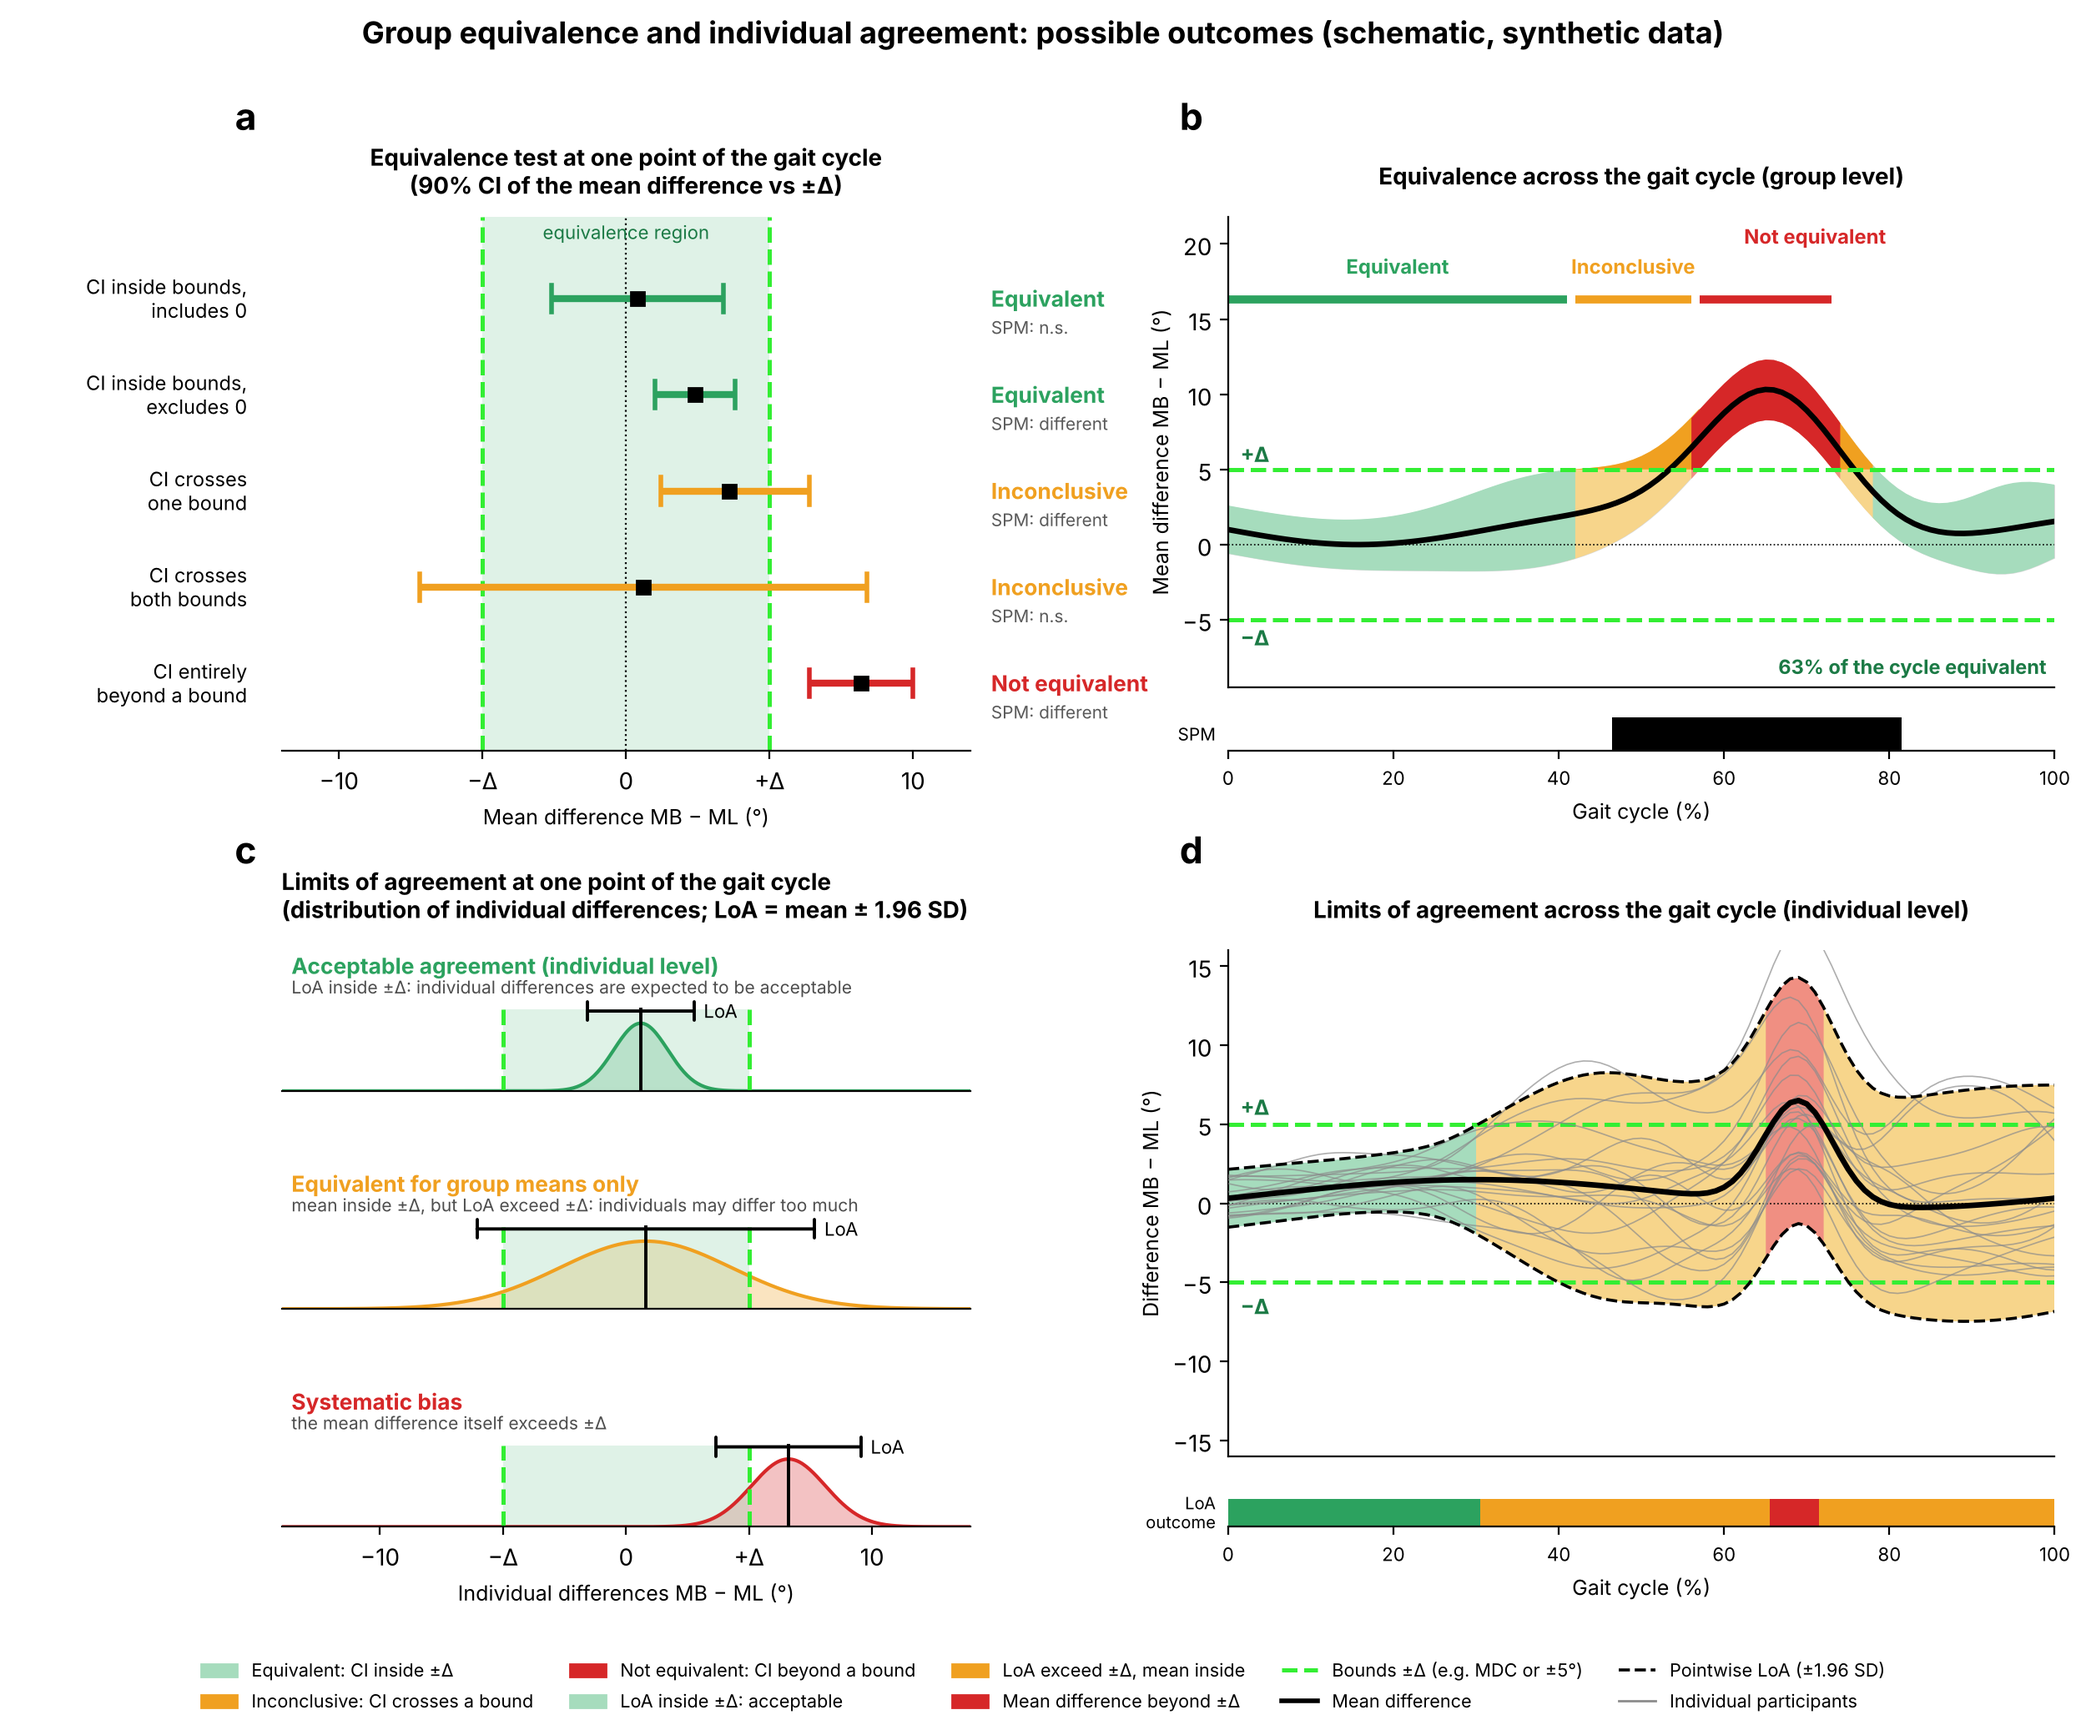
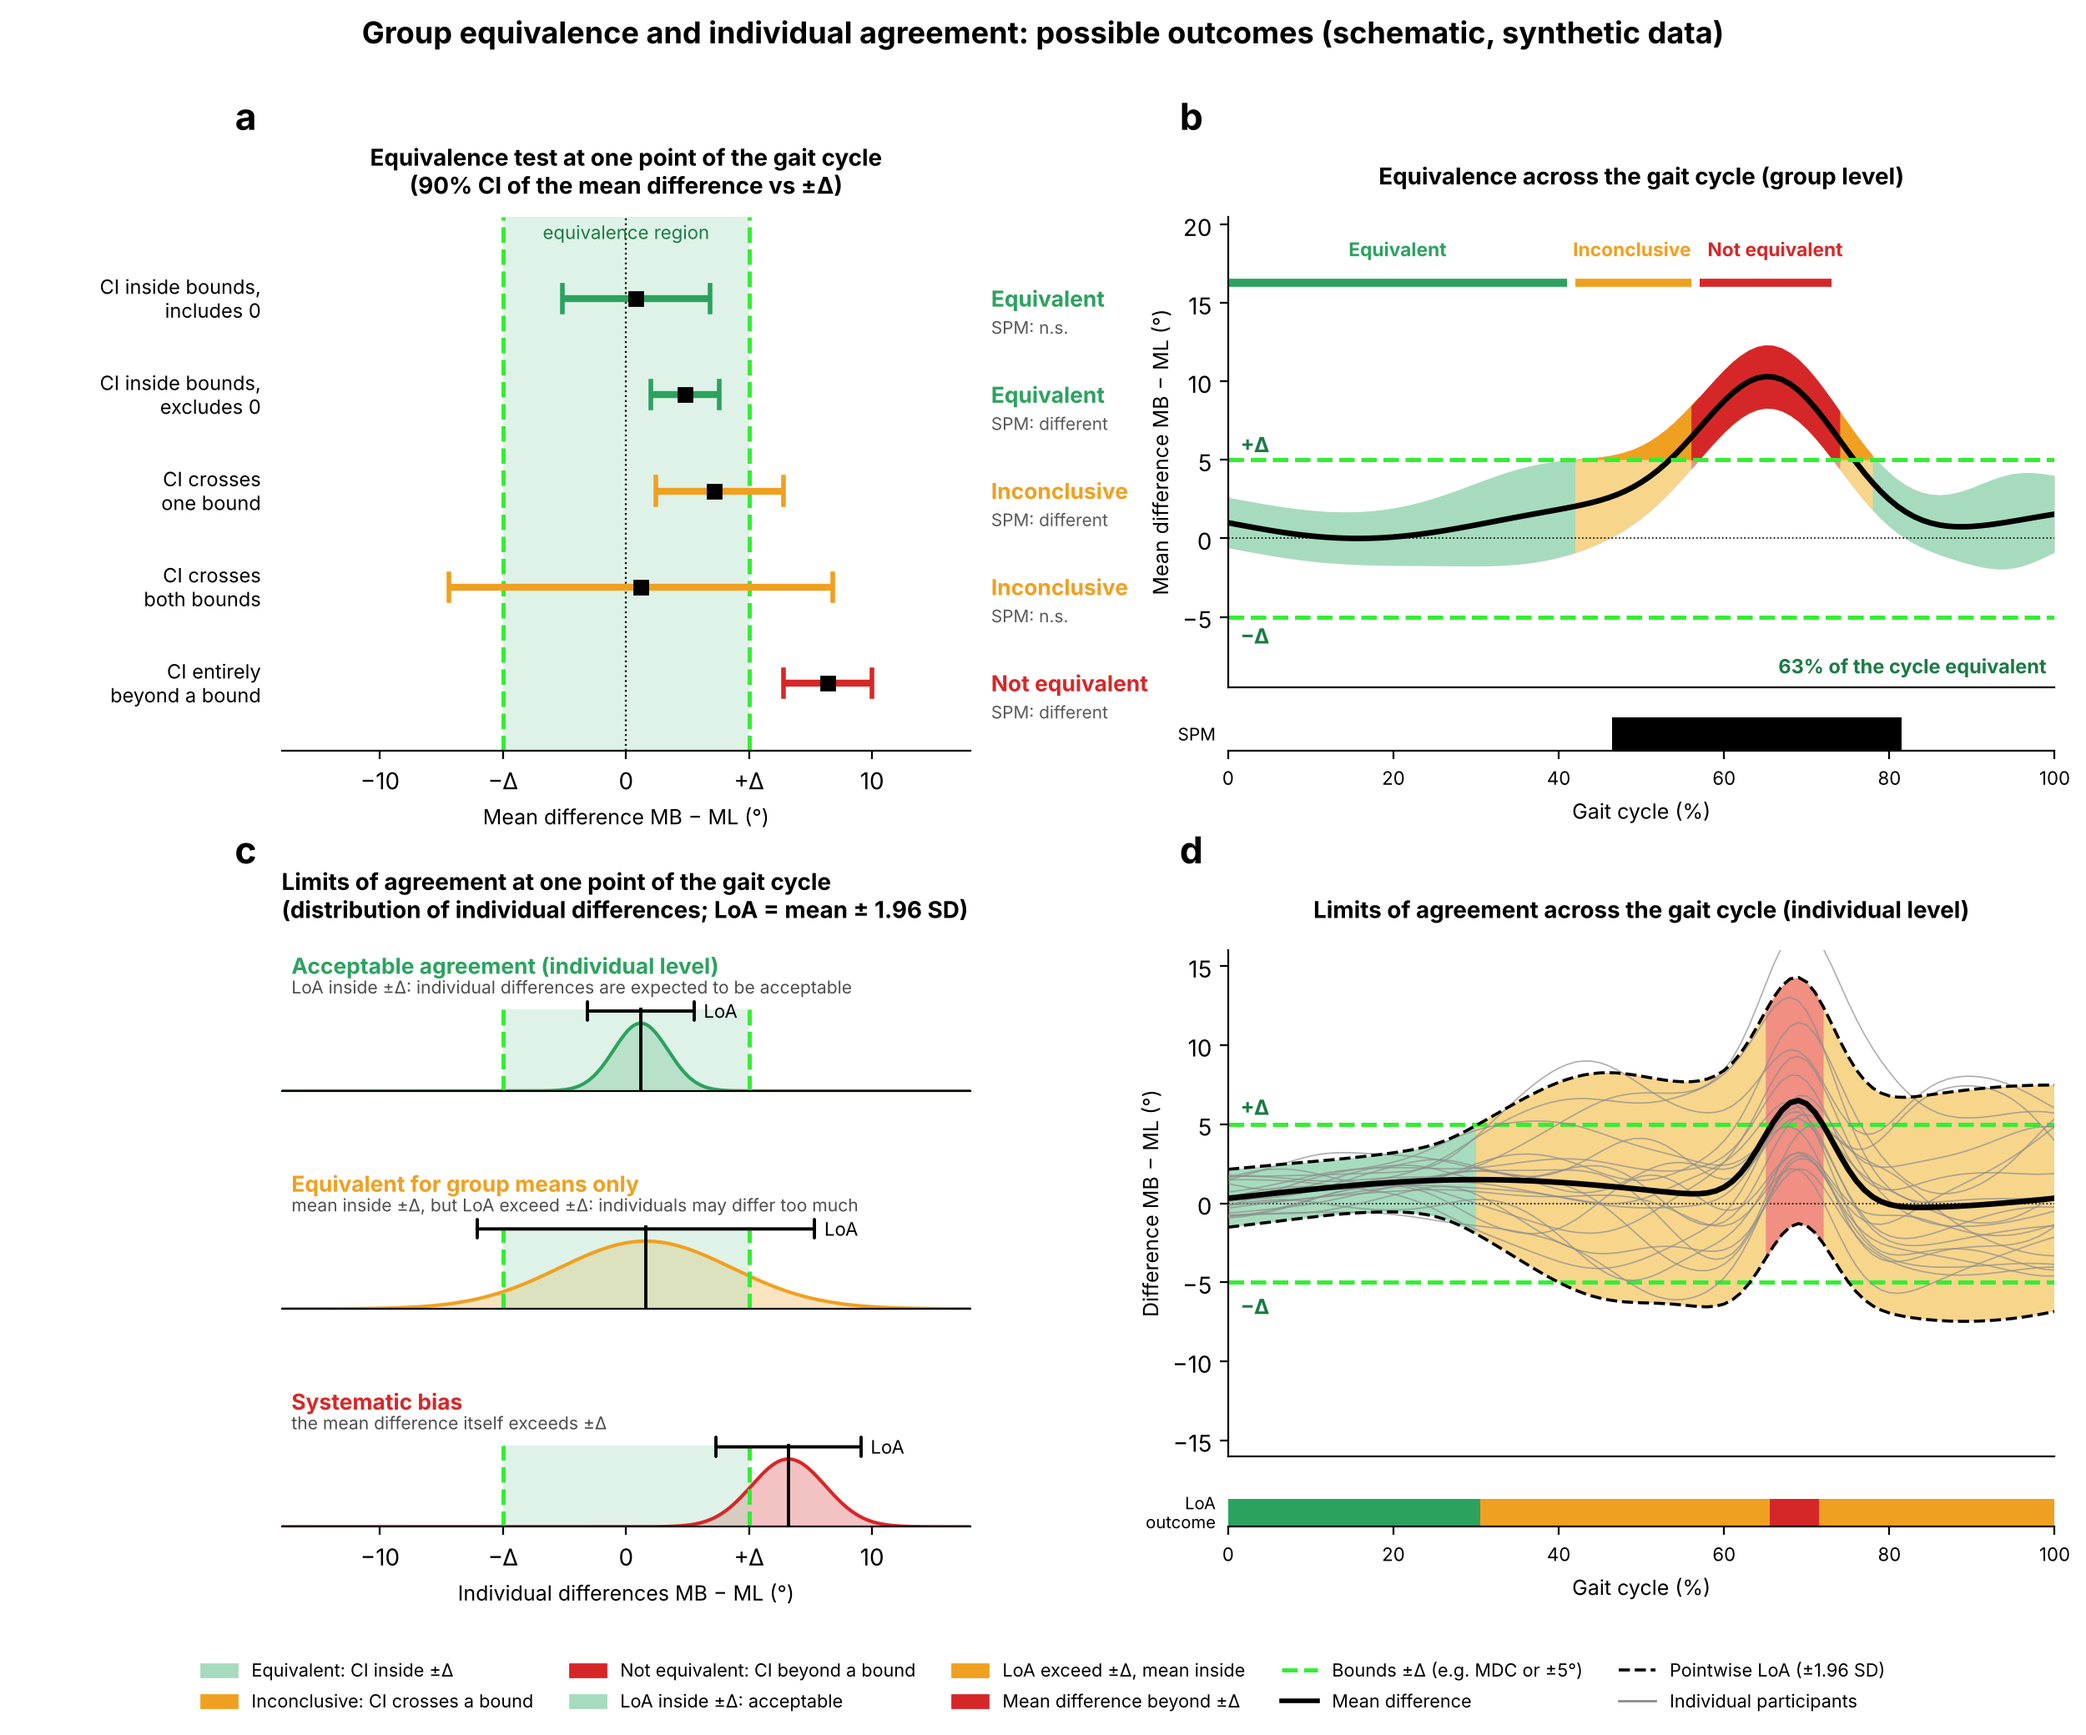
Figure fixes: conceptual labels and axes alignment, LoA titles, means legend style
- 07: the three outcome labels in panel b share one baseline; panels a and c use the same x-limits so their
  x-axes align vertically.
- 05: the subplot titles no longer include the sample size.
- 06: the legend uses the same line width and font size as the other figures.

Claude-Session: https://claude.ai/code/session_015w9XBhFVNXRPjuHceetm3n

diff --git a/python_analysis/07_plot_conceptual_figure.py b/python_analysis/07_plot_conceptual_figure.py
@@ -87,12 +87,12 @@ for i, (lab, m, lo, hi, c, sig) in enumerate(rows):
     ax.plot([lo, hi], [y, y], color=col[c], lw=3, solid_capstyle='butt')
     ax.plot([lo, lo], [y - 0.14, y + 0.14], color=col[c], lw=2); ax.plot([hi, hi], [y - 0.14, y + 0.14], color=col[c], lw=2)
     ax.plot(m, y, 's', color='k', ms=6, zorder=5)
-    ax.text(-13.2, y, lab, ha='right', va='center', fontsize=8.5)
+    ax.annotate(lab, xy=(-0.03, y), xycoords=('axes fraction', 'data'), ha='right', va='center', fontsize=8.5)
     ax.annotate(name[c], xy=(1.03, y), xycoords=('axes fraction', 'data'), fontsize=9.5, fontweight='bold',
                 color=col[c], va='center')
     ax.annotate('SPM: ' + ('different' if sig else 'n.s.'), xy=(1.03, y - 0.3), xycoords=('axes fraction', 'data'),
                 fontsize=7.5, color='0.35', va='center')
-ax.set_xlim(-12, 12); ax.set_ylim(0.3, len(rows) + 0.85)
+ax.set_xlim(-14, 14); ax.set_ylim(0.3, len(rows) + 0.85)       # same x-limits as panel c, so the axes align
 ax.set_yticks([]); ax.set_xticks([-10, -D, 0, D, 10]); ax.set_xticklabels(['−10', '−Δ', '0', '+Δ', '10'])
 ax.set_xlabel('Mean difference MB − ML (°)', fontsize=9)
 for sp in ('top', 'right', 'left'):
@@ -124,7 +124,7 @@ for cc, dc in ((INCONCLUSIVE, C_INC), (NOT_EQUIVALENT, C_NE)):
 axb.plot(x, md, 'k', lw=2.4)
 axb.axhline(0, color='k', lw=0.6, ls=':')
 bounds_lines(axb, horizontal=True)
-axb.set_xlim(0, 100); axb.set_ylim(-9.5, 21.8)
+axb.set_xlim(0, 100); axb.set_ylim(-9.5, 20.5)
 axb.set_xticks([]); axb.set_ylabel('Mean difference MB − ML (°)', fontsize=9)
 axb.text(1.5, D + 0.5, '+Δ', color='#1b7a45', fontsize=9, fontweight='bold'); axb.text(1.5, -D - 1.7, '−Δ', color='#1b7a45', fontsize=9, fontweight='bold')
 labpos = {EQUIVALENT: (None, 17.6), INCONCLUSIVE: (None, 17.6), NOT_EQUIVALENT: (None, 17.6)}
@@ -133,7 +133,9 @@ for cc in (EQUIVALENT, INCONCLUSIVE, NOT_EQUIVALENT):
     if r:
         s0, e0 = max(r, key=lambda t: t[1] - t[0])
         axb.plot([s0, e0], [16.3, 16.3], color=col[cc], lw=3.5, solid_capstyle='butt')
-        axb.text((s0 + e0) / 2 + (6 if cc == NOT_EQUIVALENT else 0), 17.7 + (2.0 if cc == NOT_EQUIVALENT else 0), name[cc], ha='center', va='bottom', fontsize=8.6, fontweight='bold', color=col[cc])
+        # all three labels share one baseline; the neighbouring labels are anchored to the facing ends of their runs
+        xl, ha_ = {EQUIVALENT: ((s0 + e0) / 2, 'center'), INCONCLUSIVE: (e0, 'right'), NOT_EQUIVALENT: (s0 + 1, 'left')}[cc]
+        axb.text(xl, 17.7, name[cc], ha=ha_, va='bottom', fontsize=8.2, fontweight='bold', color=col[cc])
 axb.text(99, -8.6, f'{100 * np.mean(cls == EQUIVALENT):.0f}% of the cycle equivalent', ha='right', fontsize=8.5, color='#1b7a45', fontweight='bold')
 for sp in ('top', 'right'):
     axb.spines[sp].set_visible(False)

diff --git a/python_analysis/06_plot_means.py b/python_analysis/06_plot_means.py
@@ -77,9 +77,9 @@ def main():
         if len(subs) != ds.mb.shape[0]:
             print(f'  {var.title}: n = {len(subs)}')
 
-    fig.legend(handles=[Line2D([0], [0], color=COLOURS['ml'], lw=2.5, label='Markerless'),
-                        Line2D([0], [0], color=COLOURS['mb'], lw=2.5, label='Marker-based')],
-               loc='upper center', ncol=2, frameon=False, fontsize=9, bbox_to_anchor=(0.5, 1.0))
+    fig.legend(handles=[Line2D([0], [0], color=COLOURS['ml'], lw=2, label='Markerless'),
+                        Line2D([0], [0], color=COLOURS['mb'], lw=2, label='Marker-based')],
+               loc='upper center', ncol=2, frameon=False, fontsize=7.5, bbox_to_anchor=(0.5, 1.0))   # as in the other figures
     args.out.parent.mkdir(parents=True, exist_ok=True)
     fig.savefig(args.out, dpi=args.dpi)
     print(f'Wrote {args.out}')

diff --git a/python_analysis/05_plot_loa.py b/python_analysis/05_plot_loa.py
@@ -96,7 +96,7 @@ def main():
                 bbox=dict(fc='white', ec='none', pad=0.8, alpha=0.75), zorder=8)
         lim = max(10, 5 * np.ceil(max(np.abs(lo).max(), np.abs(hi).max(), bound) / 5))
         ax.set_xlim(0, 100); ax.set_ylim(-lim, lim * 1.25); ax.set_xticks([0, 20, 40, 60, 80, 100])
-        ax.set_title(f'{title} (n={meta["n"][k]})', fontsize=9, fontweight='bold')
+        ax.set_title(title, fontsize=9, fontweight='bold')
         ax.tick_params(labelsize=7, labelbottom=False)
         if c == 0:
             ax.set_ylabel('MB − ML (°)', fontsize=8)
